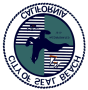
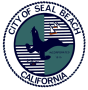
Correct vertically flipped city seal to match timesheet references

diff --git a/app/approval.css b/app/approval.css
@@ -546,7 +546,7 @@
 .timesheet-seal {
   width: 58px;
   height: 58px;
-  background: url("/city-seal.png") center / contain no-repeat;
+  background: url("/city-seal.png?v=2") center / contain no-repeat;
 }
 
 .timesheet-period {
